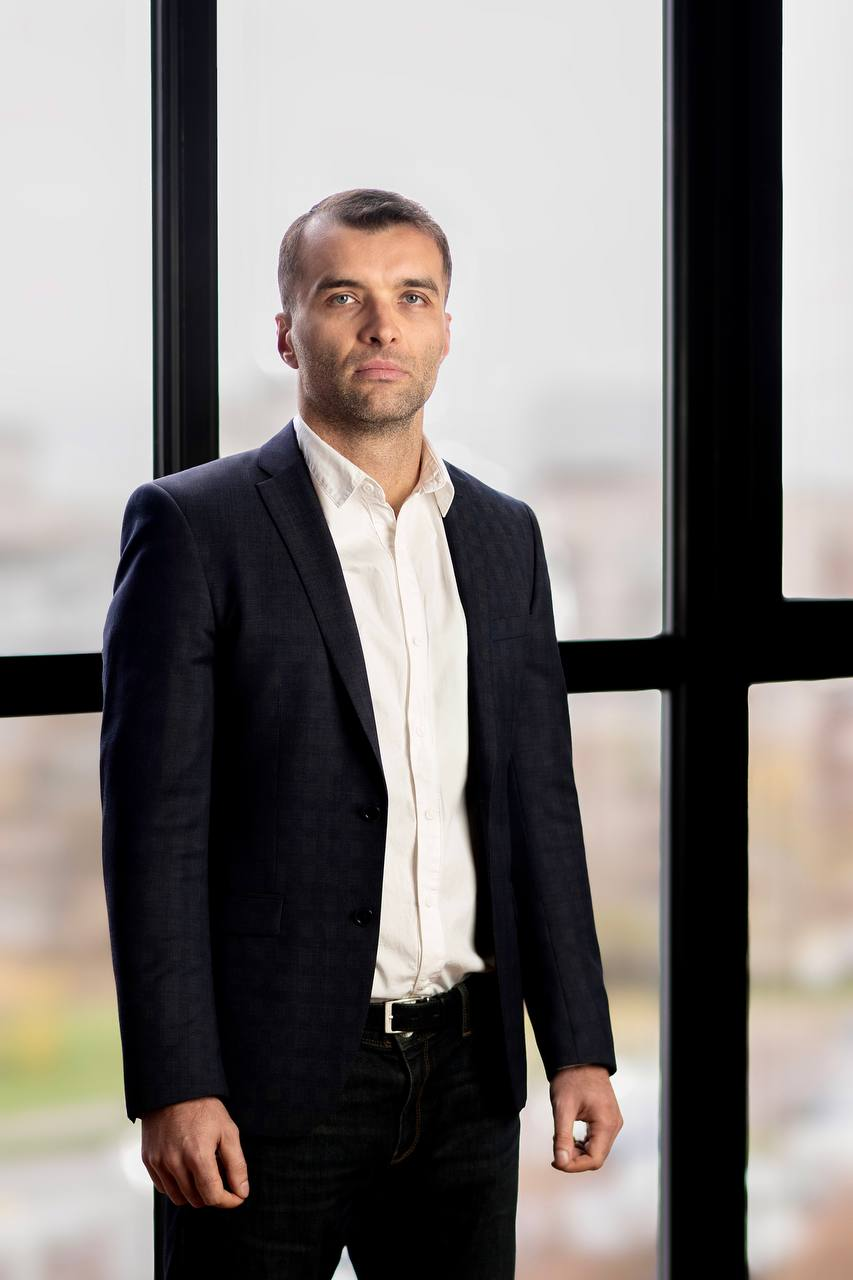
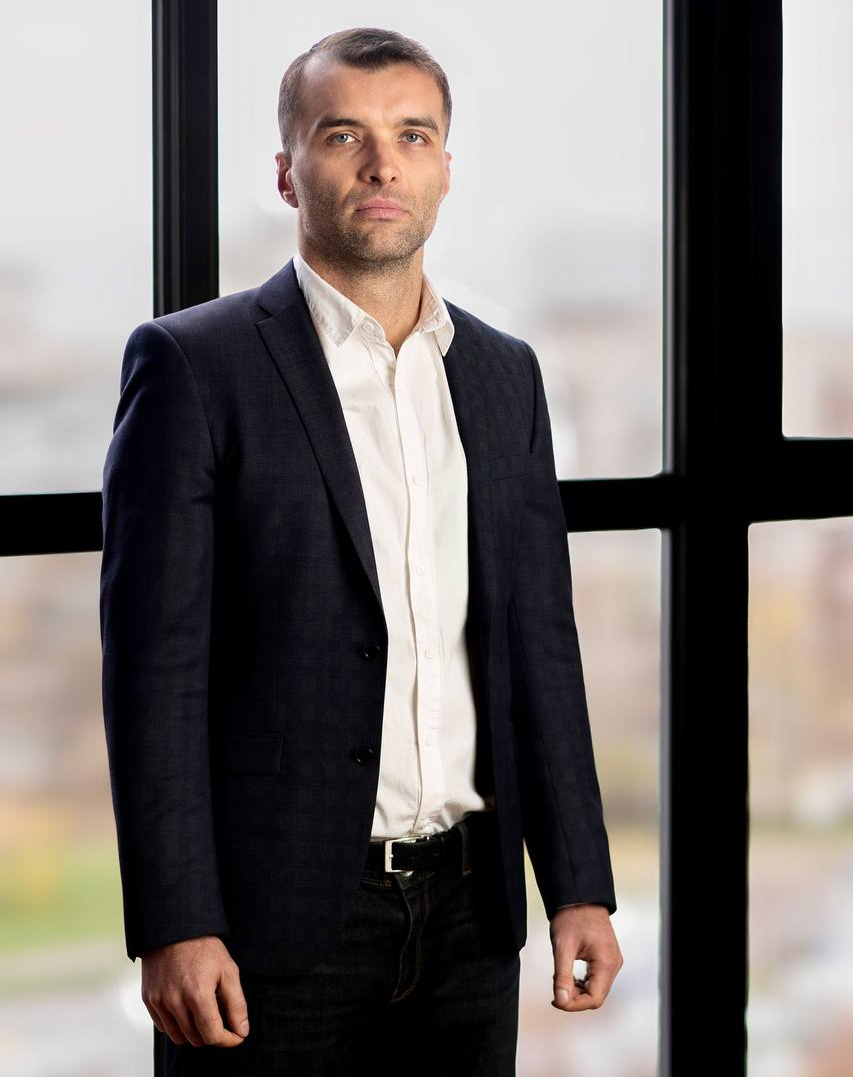
Remove founder hero slide; show new founder portrait uncropped

diff --git a/index.html b/index.html
@@ -337,7 +337,6 @@
   .hs-text.is-active { opacity: 1; transform: none; visibility: visible; transition: opacity .9s var(--ease-out) .25s, transform 1.1s var(--ease-out) .25s, visibility 0s; }
   .hs-media img { position: absolute; inset: 0; opacity: 0; transform: scale(1.06); transition: opacity 1.4s var(--ease-out), transform 7s linear; }
   .hs-media img.is-active { opacity: 1; transform: scale(1); }
-  .hs-media img.hs-founder { object-position: 50% 30%; }
   .hs-pager { position: absolute; left: 0; right: 0; bottom: 0; z-index: 2; display: flex; align-items: center; gap: 20px; padding: 0 24px 10px; }
   .hs-count { font-family: 'Newsreader', Georgia, serif; font-size: 15px; color: rgba(255, 255, 255, .7); letter-spacing: .02em; min-width: 56px; font-variant-numeric: tabular-nums; }
   .hs-cur { color: #fff; }
@@ -517,23 +516,19 @@
     <div class="hero-slider surface-floating grid lg:grid-cols-[minmax(0,5fr)_minmax(0,9fr)]" id="heroSlider" aria-roledescription="carousel" aria-label="Intor at a glance">
       <div class="order-2 lg:order-1 px-6 py-10 md:px-12 md:py-14 lg:px-10 xl:px-14 flex flex-col justify-center">
         <div class="hs-texts reveal d1">
-          <div class="hs-text is-active" role="group" aria-roledescription="slide" aria-label="1 of 5">
+          <div class="hs-text is-active" role="group" aria-roledescription="slide" aria-label="1 of 4">
             <h1 id="hero-title" class="t-display h-hero text-ink">The ground beneath intelligence.</h1>
             <p class="t-serif text-[18px] leading-[1.65] text-[#333] mt-6">We find the land, secure the power, build the data center and sign the tenant. Intor carries each project from an empty field to a working AI facility, in the United States, Europe and the Middle East.</p>
           </div>
-          <div class="hs-text" role="group" aria-roledescription="slide" aria-label="2 of 5" aria-hidden="true">
-            <h2 class="t-display h-hero text-ink">Fifteen years in the field.</h2>
-            <p class="t-serif text-[18px] leading-[1.65] text-[#333] mt-6">Founder Vitalii Abrams spent fifteen years installing and supplying equipment for solar plants and data centers. Intor grew out of that work and out of one conviction: AI will need foundations built to last for decades.</p>
-          </div>
-          <div class="hs-text" role="group" aria-roledescription="slide" aria-label="3 of 5" aria-hidden="true">
+          <div class="hs-text" role="group" aria-roledescription="slide" aria-label="2 of 4" aria-hidden="true">
             <h2 class="t-display h-hero text-ink">It begins with an empty field.</h2>
             <p class="t-serif text-[18px] leading-[1.65] text-[#333] mt-6">More than 130 land sites in the United States, Hungary, Poland and Chile are under study. We check every title, zoning file and route for fibre before a single plan is drawn.</p>
           </div>
-          <div class="hs-text" role="group" aria-roledescription="slide" aria-label="4 of 5" aria-hidden="true">
+          <div class="hs-text" role="group" aria-roledescription="slide" aria-label="3 of 4" aria-hidden="true">
             <h2 class="t-display h-hero text-ink">Power comes first.</h2>
             <p class="t-serif text-[18px] leading-[1.65] text-[#333] mt-6">Each site starts with a confirmed grid connection of 10 MW or more. Without it, there is no project. With it, there is the one thing AI cannot do without.</p>
           </div>
-          <div class="hs-text" role="group" aria-roledescription="slide" aria-label="5 of 5" aria-hidden="true">
+          <div class="hs-text" role="group" aria-roledescription="slide" aria-label="4 of 4" aria-hidden="true">
             <h2 class="t-display h-hero text-ink">Built to run for decades.</h2>
             <p class="t-serif text-[18px] leading-[1.65] text-[#333] mt-6">We build turnkey, contract the full capacity to an international tenant for five to ten years, and stay on to operate, maintain and protect the site.</p>
           </div>
@@ -545,18 +540,16 @@
       </div>
       <div class="hs-media order-1 lg:order-2 media aspect-[4/3] md:aspect-[16/9] lg:aspect-auto lg:min-h-[560px]">
         <img width="1800" height="1004" class="is-active" src="assets/img/hero.jpg" alt="Modular data center campus at blue hour with an electrical substation in the background" fetchpriority="high">
-        <img width="640" height="640" class="hs-founder" src="assets/img/founder.jpg" alt="Vitalii Abrams, founder of Intor, at his desk" loading="lazy">
         <img width="1800" height="1004" src="assets/img/hero-4.jpg" alt="Gravel road across empty flat land toward transmission towers at dawn" loading="lazy">
         <img width="1800" height="1004" src="assets/img/hero-2.jpg" alt="High-voltage electrical substation with transformers at dusk" loading="lazy">
         <img width="1800" height="1004" src="assets/img/hero-3.jpg" alt="Aisle of server racks with liquid-cooling pipes inside a data center hall" loading="lazy">
         <div class="hs-pager">
-          <p class="hs-count" aria-hidden="true"><span class="hs-cur">01</span><span class="hs-sep">/</span>05</p>
+          <p class="hs-count" aria-hidden="true"><span class="hs-cur">01</span><span class="hs-sep">/</span>04</p>
           <div class="hs-dots">
             <button type="button" class="hs-dot is-active" aria-label="Show slide 1" aria-current="true"><span class="hs-fill"></span></button>
             <button type="button" class="hs-dot" aria-label="Show slide 2"><span class="hs-fill"></span></button>
             <button type="button" class="hs-dot" aria-label="Show slide 3"><span class="hs-fill"></span></button>
             <button type="button" class="hs-dot" aria-label="Show slide 4"><span class="hs-fill"></span></button>
-            <button type="button" class="hs-dot" aria-label="Show slide 5"><span class="hs-fill"></span></button>
           </div>
         </div>
       </div>
@@ -965,8 +958,8 @@
 <section id="founder" class="module dark-field grain text-white overflow-hidden" aria-labelledby="founder-title">
   <div class="relative z-[1] max-w-site mx-auto grid lg:grid-cols-[minmax(0,5fr)_minmax(0,7fr)] gap-12 lg:gap-20 items-center">
     <figure class="reveal">
-      <div class="media original aspect-[4/5] surface-floating">
-        <img width="853" height="1280" class="object-[50%_20%]" src="assets/img/founder-portrait.jpg" alt="Portrait of Vitalii Abrams, founder of Intor" loading="lazy">
+      <div class="media original aspect-[853/1077] surface-floating">
+        <img width="853" height="1077" src="assets/img/founder-portrait.jpg" alt="Portrait of Vitalii Abrams, founder of Intor" loading="lazy">
       </div>
       <figcaption class="mt-5 flex items-baseline justify-between gap-4 border-t border-white/20 pt-4">
         <span class="t-title text-[22px]">Vitalii Abrams</span>
